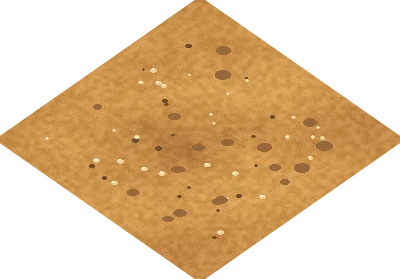
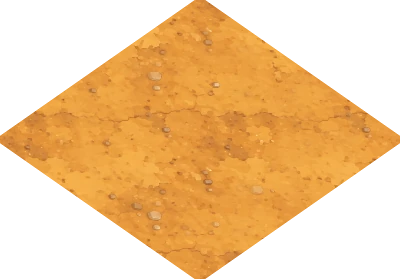
ok

diff --git a/farma/index.html b/farma/index.html
@@ -165,7 +165,7 @@ h4{margin:12px 0 6px;font-size:13px;font-weight:800;color:var(--brown2)}
 
 <script>
 'use strict';
-const META={"bridge":{"bb":[17,23,383,344],"w":400,"h":367},"bridge2":{"bb":[3,18,396,348],"w":400,"h":367},"coin_icon":{"bb":[2,3,136,145],"w":136,"h":147},"coop":{"bb":[29,21,369,346],"w":400,"h":367},"coop_hens":{"bb":[32,39,368,361],"w":400,"h":400},"d_clover1":{"bb":[4,4,255,189],"w":259,"h":193},"d_clover2":{"bb":[4,4,215,155],"w":219,"h":159},"d_fern1":{"bb":[4,4,237,190],"w":241,"h":194},"d_fern2":{"bb":[4,4,234,186],"w":238,"h":190},"d_moss1":{"bb":[4,4,251,183],"w":255,"h":187},"d_moss2":{"bb":[4,4,292,196],"w":296,"h":200},"d_mush1":{"bb":[4,4,130,106],"w":135,"h":110},"d_mush2":{"bb":[4,4,130,124],"w":134,"h":128},"d_petal1":{"bb":[4,4,241,126],"w":246,"h":130},"d_petal2":{"bb":[4,4,237,129],"w":241,"h":133},"d_pflow1":{"bb":[4,4,241,194],"w":245,"h":198},"d_pflow2":{"bb":[4,4,218,180],"w":222,"h":184},"d_pflow3":{"bb":[4,4,224,190],"w":228,"h":194},"d_stone1":{"bb":[4,4,162,118],"w":166,"h":122},"d_stone2":{"bb":[4,5,186,119],"w":190,"h":123},"d_stone3":{"bb":[4,4,178,129],"w":183,"h":133},"d_tuft1":{"bb":[4,4,222,210],"w":226,"h":214},"d_tuft2":{"bb":[4,4,211,224],"w":215,"h":228},"d_tuft3":{"bb":[4,4,228,235],"w":232,"h":239},"d_wflow1":{"bb":[4,4,181,177],"w":185,"h":181},"d_wflow2":{"bb":[4,5,212,191],"w":216,"h":195},"d_wflow3":{"bb":[4,4,204,181],"w":208,"h":185},"daikon_1":{"bb":[4,5,332,280],"w":336,"h":284,"soil":[35,156,276,278]},"daikon_2":{"bb":[4,5,521,426],"w":525,"h":430,"soil":[141,311,375,424]},"daikon_3":{"bb":[4,5,611,593],"w":615,"h":597,"soil":[189,367,449,591]},"dirt1":{"bb":[0,0,400,279],"w":400,"h":279},"dirt2":{"bb":[0,0,400,279],"w":400,"h":279},"dirt3":{"bb":[0,0,400,279],"w":400,"h":279},"f_hoe":{"bb":[77,6,348,356],"w":400,"h":367},"f_pet":{"bb":[108,31,307,333],"w":400,"h":367},"f_stand":{"bb":[122,36,278,330],"w":400,"h":367},"f_walk1":{"bb":[110,14,301,352],"w":400,"h":367},"f_walk2":{"bb":[84,16,315,439],"w":400,"h":456},"f_water":{"bb":[70,15,344,382],"w":400,"h":400},"f_wipe":{"bb":[89,28,269,372],"w":400,"h":400},"fa_harvest_1":{"bb":[21,23,264,348],"w":284,"h":353,"set":[8,11,276,348]},"fa_harvest_2":{"bb":[9,23,276,348],"w":284,"h":353,"set":[8,11,276,348]},"fa_harvest_3":{"bb":[8,11,276,348],"w":284,"h":353,"set":[8,11,276,348]},"fa_harvest_4":{"bb":[30,13,254,348],"w":284,"h":353,"set":[8,11,276,348]},"fa_hoe_1":{"bb":[8,11,262,371],"w":270,"h":376,"set":[8,11,262,371]},"fa_hoe_2":{"bb":[27,53,244,371],"w":270,"h":376,"set":[8,11,262,371]},"fa_hoe_3":{"bb":[18,45,253,371],"w":270,"h":376,"set":[8,11,262,371]},"fa_hoe_4":{"bb":[17,39,253,371],"w":270,"h":376,"set":[8,11,262,371]},"fa_plant_1":{"bb":[9,14,220,301],"w":228,"h":306,"set":[8,11,220,301]},"fa_plant_2":{"bb":[13,25,215,301],"w":228,"h":306,"set":[8,11,220,301]},"fa_plant_3":{"bb":[8,11,220,301],"w":228,"h":306,"set":[8,11,220,301]},"fa_water_1":{"bb":[14,15,225,341],"w":238,"h":346,"set":[8,11,230,341]},"fa_water_2":{"bb":[22,21,216,341],"w":238,"h":346,"set":[8,11,230,341]},"fa_water_3":{"bb":[8,16,230,341],"w":238,"h":346,"set":[8,11,230,341]},"fa_water_4":{"bb":[24,11,214,341],"w":238,"h":346,"set":[8,11,230,341]},"fence":{"bb":[30,37,369,330],"w":400,"h":367},"fence_c":{"bb":[32,34,368,333],"w":400,"h":367},"flower_icon":{"bb":[3,2,130,144],"w":130,"h":146},"flowers":{"bb":[36,48,364,319],"w":400,"h":367},"fw_d_1":{"bb":[11,24,275,475],"w":285,"h":480,"set":[8,11,277,475]},"fw_d_2":{"bb":[13,44,273,475],"w":285,"h":480,"set":[8,11,277,475]},"fw_d_3":{"bb":[12,21,273,475],"w":285,"h":480,"set":[8,11,277,475]},"fw_d_4":{"bb":[8,15,277,475],"w":285,"h":480,"set":[8,11,277,475]},"fw_d_5":{"bb":[13,20,272,475],"w":285,"h":480,"set":[8,11,277,475]},"fw_d_6":{"bb":[13,11,272,475],"w":285,"h":480,"set":[8,11,277,475]},"fw_u_1":{"bb":[11,20,272,476],"w":282,"h":481,"set":[8,11,274,476]},"fw_u_2":{"bb":[12,32,271,476],"w":282,"h":481,"set":[8,11,274,476]},"fw_u_3":{"bb":[11,21,272,476],"w":282,"h":481,"set":[8,11,274,476]},"fw_u_4":{"bb":[11,11,272,476],"w":282,"h":481,"set":[8,11,274,476]},"fw_u_5":{"bb":[8,43,274,476],"w":282,"h":481,"set":[8,11,274,476]},"fw_u_6":{"bb":[8,14,274,476],"w":282,"h":481,"set":[8,11,274,476]},"grass1":{"bb":[0,0,400,279],"w":400,"h":279},"grass2":{"bb":[0,0,400,279],"w":400,"h":279},"grass3":{"bb":[0,0,400,279],"w":400,"h":279},"grass4":{"bb":[0,0,400,279],"w":400,"h":279},"house":{"bb":[13,21,387,346],"w":400,"h":367},"kura_biala":{"bb":[58,12,329,354],"w":400,"h":367},"kura_biala2":{"bb":[65,48,337,329],"w":400,"h":367},"kura_brazowa":{"bb":[66,9,354,354],"w":400,"h":367},"kura_brazowa2":{"bb":[35,36,332,304],"w":400,"h":367},"kurczak_maly":{"bb":[88,61,278,318],"w":400,"h":367},"kurczak_maly2":{"bb":[78,66,324,303],"w":400,"h":367},"mango_head":{"bb":[21,15,388,349],"w":400,"h":364},"mango_hunt":{"bb":[43,22,357,345],"w":400,"h":367},"mango_lie":{"bb":[5,72,395,295],"w":400,"h":367},"mango_loaf":{"bb":[26,59,374,307],"w":400,"h":367},"mango_play":{"bb":[26,18,373,349],"w":400,"h":367},"mango_sleep":{"bb":[37,93,361,292],"w":400,"h":367},"mango_sweet":{"bb":[40,12,360,355],"w":400,"h":367},"mango_walk":{"bb":[28,7,363,343],"w":400,"h":367},"mango_wd_1":{"bb":[8,11,482,486],"w":490,"h":491,"set":[8,11,482,486]},"mango_wd_2":{"bb":[18,41,473,486],"w":490,"h":491,"set":[8,11,482,486]},"mango_wd_3":{"bb":[15,20,476,486],"w":490,"h":491,"set":[8,11,482,486]},"mango_wd_4":{"bb":[24,41,467,486],"w":490,"h":491,"set":[8,11,482,486]},"mango_wink":{"bb":[34,23,366,345],"w":400,"h":367},"mango_wu_1":{"bb":[13,21,483,466],"w":496,"h":471,"set":[12,21,484,466]},"mango_wu_2":{"bb":[20,53,476,466],"w":496,"h":471,"set":[12,21,484,466]},"mango_wu_3":{"bb":[25,40,472,466],"w":496,"h":471,"set":[12,21,484,466]},"mango_wu_4":{"bb":[12,37,484,466],"w":496,"h":471,"set":[12,21,484,466]},"path":{"bb":[43,48,357,319],"w":400,"h":367},"pond":{"bb":[46,42,354,325],"w":400,"h":367},"pond2":{"bb":[16,19,384,348],"w":400,"h":367},"sakura":{"bb":[58,20,340,347],"w":400,"h":367},"soil_dry1":{"bb":[0,0,400,279],"w":400,"h":279},"soil_dry2":{"bb":[0,0,400,279],"w":400,"h":279},"soil_wet1":{"bb":[0,0,400,279],"w":400,"h":279},"soil_wet2":{"bb":[0,0,400,279],"w":400,"h":279},"sushi_back":{"bb":[22,31,378,336],"w":400,"h":367},"sushi_head":{"bb":[22,14,383,349],"w":400,"h":364},"sushi_headangry":{"bb":[10,3,389,360],"w":400,"h":364},"sushi_hunt":{"bb":[31,29,369,337],"w":400,"h":367},"sushi_sit":{"bb":[15,24,382,347],"w":400,"h":364},"sushi_sleep":{"bb":[54,58,346,308],"w":400,"h":367},"sushi_sleep2":{"bb":[17,36,383,328],"w":400,"h":364},"sushi_stretch":{"bb":[25,22,375,345],"w":400,"h":367},"sushi_walk":{"bb":[43,22,357,348],"w":400,"h":367},"sushi_wd_1":{"bb":[15,50,496,459],"w":511,"h":464,"set":[7,16,504,459]},"sushi_wd_2":{"bb":[22,74,490,459],"w":511,"h":464,"set":[7,16,504,459]},"sushi_wd_3":{"bb":[7,23,504,459],"w":511,"h":464,"set":[7,16,504,459]},"sushi_wd_4":{"bb":[23,16,489,459],"w":511,"h":464,"set":[7,16,504,459]},"sushi_wu_1":{"bb":[12,15,479,444],"w":490,"h":449,"set":[12,15,479,444]},"sushi_wu_2":{"bb":[17,48,474,444],"w":490,"h":449,"set":[12,15,479,444]},"sushi_wu_3":{"bb":[20,33,470,444],"w":490,"h":449,"set":[12,15,479,444]},"sushi_wu_4":{"bb":[17,22,474,444],"w":490,"h":449,"set":[12,15,479,444]},"t_bag":{"bb":[43,30,357,337],"w":400,"h":367},"t_harvest":{"bb":[26,2,367,327],"w":370,"h":344},"t_seed":{"bb":[27,2,367,327],"w":370,"h":344},"t_settings":{"bb":[106,2,288,189],"w":290,"h":275},"t_water":{"bb":[27,3,367,327],"w":370,"h":344},"well":{"bb":[48,40,352,327],"w":400,"h":367}};
+const META={"bed_stone1":{"bb":[1,1,149,121],"w":150,"h":122},"bed_stone2":{"bb":[1,1,149,119],"w":150,"h":120},"bed_stone3":{"bb":[1,1,149,125],"w":150,"h":126},"bed_stone4":{"bb":[1,1,149,125],"w":150,"h":126},"bridge":{"bb":[17,23,383,344],"w":400,"h":367},"bridge2":{"bb":[3,18,396,348],"w":400,"h":367},"coin_icon":{"bb":[2,3,136,145],"w":136,"h":147},"coop":{"bb":[29,21,369,346],"w":400,"h":367},"coop_hens":{"bb":[32,39,368,361],"w":400,"h":400},"d_clover1":{"bb":[4,4,255,189],"w":259,"h":193},"d_clover2":{"bb":[4,4,215,155],"w":219,"h":159},"d_fern1":{"bb":[4,4,237,190],"w":241,"h":194},"d_fern2":{"bb":[4,4,234,186],"w":238,"h":190},"d_moss1":{"bb":[4,4,251,183],"w":255,"h":187},"d_moss2":{"bb":[4,4,292,196],"w":296,"h":200},"d_mush1":{"bb":[4,4,130,106],"w":135,"h":110},"d_mush2":{"bb":[4,4,130,124],"w":134,"h":128},"d_petal1":{"bb":[4,4,241,126],"w":246,"h":130},"d_petal2":{"bb":[4,4,237,129],"w":241,"h":133},"d_pflow1":{"bb":[4,4,241,194],"w":245,"h":198},"d_pflow2":{"bb":[4,4,218,180],"w":222,"h":184},"d_pflow3":{"bb":[4,4,224,190],"w":228,"h":194},"d_stone1":{"bb":[4,4,162,118],"w":166,"h":122},"d_stone2":{"bb":[4,5,186,119],"w":190,"h":123},"d_stone3":{"bb":[4,4,178,129],"w":183,"h":133},"d_tuft1":{"bb":[4,4,222,210],"w":226,"h":214},"d_tuft2":{"bb":[4,4,211,224],"w":215,"h":228},"d_tuft3":{"bb":[4,4,228,235],"w":232,"h":239},"d_wflow1":{"bb":[4,4,181,177],"w":185,"h":181},"d_wflow2":{"bb":[4,5,212,191],"w":216,"h":195},"d_wflow3":{"bb":[4,4,204,181],"w":208,"h":185},"daikon_1":{"bb":[4,5,332,280],"w":336,"h":284,"soil":[35,156,276,278]},"daikon_2":{"bb":[4,5,521,426],"w":525,"h":430,"soil":[141,311,375,424]},"daikon_3":{"bb":[4,5,611,593],"w":615,"h":597,"soil":[189,367,449,591]},"dirt1":{"bb":[0,0,400,279],"w":400,"h":279},"dirt2":{"bb":[0,0,400,279],"w":400,"h":279},"dirt3":{"bb":[0,0,400,279],"w":400,"h":279},"dirt4":{"bb":[0,0,400,279],"w":400,"h":279},"f_hoe":{"bb":[77,6,348,356],"w":400,"h":367},"f_pet":{"bb":[108,31,307,333],"w":400,"h":367},"f_stand":{"bb":[122,36,278,330],"w":400,"h":367},"f_walk1":{"bb":[110,14,301,352],"w":400,"h":367},"f_walk2":{"bb":[84,16,315,439],"w":400,"h":456},"f_water":{"bb":[70,15,344,382],"w":400,"h":400},"f_wipe":{"bb":[89,28,269,372],"w":400,"h":400},"fa_harvest_1":{"bb":[21,23,264,348],"w":284,"h":353,"set":[8,11,276,348]},"fa_harvest_2":{"bb":[9,23,276,348],"w":284,"h":353,"set":[8,11,276,348]},"fa_harvest_3":{"bb":[8,11,276,348],"w":284,"h":353,"set":[8,11,276,348]},"fa_harvest_4":{"bb":[30,13,254,348],"w":284,"h":353,"set":[8,11,276,348]},"fa_hoe_1":{"bb":[8,11,262,371],"w":270,"h":376,"set":[8,11,262,371]},"fa_hoe_2":{"bb":[27,53,244,371],"w":270,"h":376,"set":[8,11,262,371]},"fa_hoe_3":{"bb":[18,45,253,371],"w":270,"h":376,"set":[8,11,262,371]},"fa_hoe_4":{"bb":[17,39,253,371],"w":270,"h":376,"set":[8,11,262,371]},"fa_plant_1":{"bb":[9,14,220,301],"w":228,"h":306,"set":[8,11,220,301]},"fa_plant_2":{"bb":[13,25,215,301],"w":228,"h":306,"set":[8,11,220,301]},"fa_plant_3":{"bb":[8,11,220,301],"w":228,"h":306,"set":[8,11,220,301]},"fa_water_1":{"bb":[14,15,225,341],"w":238,"h":346,"set":[8,11,230,341]},"fa_water_2":{"bb":[22,21,216,341],"w":238,"h":346,"set":[8,11,230,341]},"fa_water_3":{"bb":[8,16,230,341],"w":238,"h":346,"set":[8,11,230,341]},"fa_water_4":{"bb":[24,11,214,341],"w":238,"h":346,"set":[8,11,230,341]},"fence":{"bb":[30,37,369,330],"w":400,"h":367},"fence_c":{"bb":[32,34,368,333],"w":400,"h":367},"flower_icon":{"bb":[3,2,130,144],"w":130,"h":146},"flowers":{"bb":[36,48,364,319],"w":400,"h":367},"fw_d_1":{"bb":[11,24,275,475],"w":285,"h":480,"set":[8,11,277,475]},"fw_d_2":{"bb":[13,44,273,475],"w":285,"h":480,"set":[8,11,277,475]},"fw_d_3":{"bb":[12,21,273,475],"w":285,"h":480,"set":[8,11,277,475]},"fw_d_4":{"bb":[8,15,277,475],"w":285,"h":480,"set":[8,11,277,475]},"fw_d_5":{"bb":[13,20,272,475],"w":285,"h":480,"set":[8,11,277,475]},"fw_d_6":{"bb":[13,11,272,475],"w":285,"h":480,"set":[8,11,277,475]},"fw_u_1":{"bb":[11,20,272,476],"w":282,"h":481,"set":[8,11,274,476]},"fw_u_2":{"bb":[12,32,271,476],"w":282,"h":481,"set":[8,11,274,476]},"fw_u_3":{"bb":[11,21,272,476],"w":282,"h":481,"set":[8,11,274,476]},"fw_u_4":{"bb":[11,11,272,476],"w":282,"h":481,"set":[8,11,274,476]},"fw_u_5":{"bb":[8,43,274,476],"w":282,"h":481,"set":[8,11,274,476]},"fw_u_6":{"bb":[8,14,274,476],"w":282,"h":481,"set":[8,11,274,476]},"grass1":{"bb":[0,0,400,279],"w":400,"h":279},"grass2":{"bb":[0,0,400,279],"w":400,"h":279},"grass3":{"bb":[0,0,400,279],"w":400,"h":279},"grass4":{"bb":[0,0,400,279],"w":400,"h":279},"house":{"bb":[13,21,387,346],"w":400,"h":367},"kura_biala":{"bb":[58,12,329,354],"w":400,"h":367},"kura_biala2":{"bb":[65,48,337,329],"w":400,"h":367},"kura_brazowa":{"bb":[66,9,354,354],"w":400,"h":367},"kura_brazowa2":{"bb":[35,36,332,304],"w":400,"h":367},"kurczak_maly":{"bb":[88,61,278,318],"w":400,"h":367},"kurczak_maly2":{"bb":[78,66,324,303],"w":400,"h":367},"mango_head":{"bb":[21,15,388,349],"w":400,"h":364},"mango_hunt":{"bb":[43,22,357,345],"w":400,"h":367},"mango_lie":{"bb":[5,72,395,295],"w":400,"h":367},"mango_loaf":{"bb":[26,59,374,307],"w":400,"h":367},"mango_play":{"bb":[26,18,373,349],"w":400,"h":367},"mango_sleep":{"bb":[37,93,361,292],"w":400,"h":367},"mango_sweet":{"bb":[40,12,360,355],"w":400,"h":367},"mango_walk":{"bb":[28,7,363,343],"w":400,"h":367},"mango_wd_1":{"bb":[8,11,482,486],"w":490,"h":491,"set":[8,11,482,486]},"mango_wd_2":{"bb":[18,41,473,486],"w":490,"h":491,"set":[8,11,482,486]},"mango_wd_3":{"bb":[15,20,476,486],"w":490,"h":491,"set":[8,11,482,486]},"mango_wd_4":{"bb":[24,41,467,486],"w":490,"h":491,"set":[8,11,482,486]},"mango_wink":{"bb":[34,23,366,345],"w":400,"h":367},"mango_wu_1":{"bb":[13,21,483,466],"w":496,"h":471,"set":[12,21,484,466]},"mango_wu_2":{"bb":[20,53,476,466],"w":496,"h":471,"set":[12,21,484,466]},"mango_wu_3":{"bb":[25,40,472,466],"w":496,"h":471,"set":[12,21,484,466]},"mango_wu_4":{"bb":[12,37,484,466],"w":496,"h":471,"set":[12,21,484,466]},"path":{"bb":[43,48,357,319],"w":400,"h":367},"pond":{"bb":[46,42,354,325],"w":400,"h":367},"pond2":{"bb":[16,19,384,348],"w":400,"h":367},"sakura":{"bb":[58,20,340,347],"w":400,"h":367},"soil_dry1":{"bb":[0,0,400,279],"w":400,"h":279},"soil_dry2":{"bb":[0,0,400,279],"w":400,"h":279},"soil_wet1":{"bb":[0,0,400,279],"w":400,"h":279},"soil_wet2":{"bb":[0,0,400,279],"w":400,"h":279},"sushi_back":{"bb":[22,31,378,336],"w":400,"h":367},"sushi_head":{"bb":[22,14,383,349],"w":400,"h":364},"sushi_headangry":{"bb":[10,3,389,360],"w":400,"h":364},"sushi_hunt":{"bb":[31,29,369,337],"w":400,"h":367},"sushi_sit":{"bb":[15,24,382,347],"w":400,"h":364},"sushi_sleep":{"bb":[54,58,346,308],"w":400,"h":367},"sushi_sleep2":{"bb":[17,36,383,328],"w":400,"h":364},"sushi_stretch":{"bb":[25,22,375,345],"w":400,"h":367},"sushi_walk":{"bb":[43,22,357,348],"w":400,"h":367},"sushi_wd_1":{"bb":[15,50,496,459],"w":511,"h":464,"set":[7,16,504,459]},"sushi_wd_2":{"bb":[22,74,490,459],"w":511,"h":464,"set":[7,16,504,459]},"sushi_wd_3":{"bb":[7,23,504,459],"w":511,"h":464,"set":[7,16,504,459]},"sushi_wd_4":{"bb":[23,16,489,459],"w":511,"h":464,"set":[7,16,504,459]},"sushi_wu_1":{"bb":[12,15,479,444],"w":490,"h":449,"set":[12,15,479,444]},"sushi_wu_2":{"bb":[17,48,474,444],"w":490,"h":449,"set":[12,15,479,444]},"sushi_wu_3":{"bb":[20,33,470,444],"w":490,"h":449,"set":[12,15,479,444]},"sushi_wu_4":{"bb":[17,22,474,444],"w":490,"h":449,"set":[12,15,479,444]},"t_bag":{"bb":[43,30,357,337],"w":400,"h":367},"t_harvest":{"bb":[26,2,367,327],"w":370,"h":344},"t_seed":{"bb":[27,2,367,327],"w":370,"h":344},"t_settings":{"bb":[106,2,288,189],"w":290,"h":275},"t_water":{"bb":[27,3,367,327],"w":370,"h":344},"well":{"bb":[48,40,352,327],"w":400,"h":367},"wood1":{"bb":[0,0,480,56],"w":480,"h":56},"wood2":{"bb":[0,0,480,55],"w":480,"h":55},"wood3":{"bb":[0,0,480,56],"w":480,"h":56}};
 const $=s=>document.querySelector(s);
 const clamp=(v,a,b)=>Math.max(a,Math.min(b,v));
 const lerp=(a,b,t)=>a+(b-a)*t;
@@ -364,7 +364,7 @@ function rebuildEdge(c,r){   // japońska obwódka grządek: przednie belki + ka
     if(!stone)continue;
     const own=a?[nc-1,nr-1]:b?[nc,nr-1]:cc?[nc-1,nr]:[nc,nr];
     if(own[0]!==c||own[1]!==r)continue;
-    L.push({rk:5,v:Math.floor(hash2(nc,nr,4)*2),x:(nc-nr)*HW,y:(nc+nr)*HH,d:nc+nr+.25});
+    L.push({rk:5,v:Math.floor(hash2(nc,nr,4)*4)%Math.max(1,gcache.b?gcache.b.st.length:4),x:(nc-nr)*HW,y:(nc+nr)*HH,d:nc+nr+.25});
   }
 }
 function pickDecorOff(c,r){decorBy[r][c].length=0;}
@@ -580,7 +580,7 @@ function callCat(c){
     for(let k=0;k<6&&cand.length;k++){const t=pick(cand);if(goTo(c,t[0],t[1])){c.state='walk';c.called=true;c.speed=1.9;toast(cd.name+' biegnie do Ciebie');return;}}
     toast(cd.name+' nie może dojść');return;
   }
-  const [pose,msg]=pick(IGNORE[cd.id]);c.path=[];c.state='react';c.reactPose=pose;c.stT=rnd(3.5,5.5);c.hop=.38;toast(msg);
+  const [pose,msg]=pick(IGNORE[cd.id]);c.path=[];c.state='react';c.reactPose=pose;c.stT=rnd(3.5,5.5);toast(msg);
 }
 function catPose(c){
   const P=c.def.pose;if(c.over)return P[c.over]||P.sit;
@@ -638,7 +638,7 @@ function buildGroundCache(){
   for(let i=1;i<=4;i++)if(IMG['grass'+i])gcache.g.push(mk(IMG['grass'+i],true));
   for(const k of ['soil_dry1','soil_dry2','soil_wet1','soil_wet2'])if(IMG[k])gcache.s[k]=mk(IMG[k],false);
   gcache.d=[];gcache.m={};gcache.th=th;gcache.k=tw/GW;
-  for(let i=1;i<=3;i++)if(IMG['dirt'+i])gcache.d.push(mk(IMG['dirt'+i],false));
+  for(let i=1;i<=4;i++)if(IMG['dirt'+i])gcache.d.push(mk(IMG['dirt'+i],false));
   gcache.b=makeBorderSprites(gcache.k);
 }
 // maska przejścia ziemia→trawa (niska rozdzielczość, wspólna dla wszystkich kafelków o tej samej konfiguracji sąsiadów)
@@ -692,19 +692,35 @@ function makeBorderSprites(k){
       poly(front,dark,null);
       // słoje na przedniej ściance
       g.strokeStyle='rgba(20,10,4,.35)';g.lineWidth=.7;
-      for(let i=1;i<3;i++){const f=i/3;g.beginPath();g.moveTo(front[0][0]+(front[3][0]-front[0][0])*f,front[0][1]+(front[3][1]-front[0][1])*f);g.lineTo(front[1][0]+(front[2][0]-front[1][0])*f,front[1][1]+(front[2][1]-front[1][1])*f);g.stroke();}
+      if(!IMG.wood1)for(let i=1;i<3;i++){const f=i/3;g.beginPath();g.moveTo(front[0][0]+(front[3][0]-front[0][0])*f,front[0][1]+(front[3][1]-front[0][1])*f);g.lineTo(front[1][0]+(front[2][0]-front[1][0])*f,front[1][1]+(front[2][1]-front[1][1])*f);g.stroke();}
       poly(top,mid,null);
+      const wtex=(q,im,sx,sy,sw,sh,dark)=>{ // tekstura drewna rzutowana na równoległobok q (q0->q1 wzdłuż, q0->q3 w poprzek)
+        if(!im)return;g.save();g.beginPath();g.moveTo(q[0][0],q[0][1]);for(let i=1;i<4;i++)g.lineTo(q[i][0],q[i][1]);g.closePath();g.clip();
+        g.transform(q[1][0]-q[0][0],q[1][1]-q[0][1],q[3][0]-q[0][0],q[3][1]-q[0][1],q[0][0],q[0][1]);
+        g.imageSmoothingQuality='high';g.drawImage(im,sx,sy,sw,sh,0,0,1,1);g.restore();
+        if(dark){g.fillStyle=dark;g.beginPath();g.moveTo(q[0][0],q[0][1]);for(let i=1;i<4;i++)g.lineTo(q[i][0],q[i][1]);g.closePath();g.fill();}};
+      {const ia=IMG['wood'+(vi?3:1)],ib=IMG['wood2'];
+       if(ia){const ww=ia.width,wh=ia.height,off=name==='S1'?0:ww*.35;
+         wtex(top,ia,off,0,ww*.65,wh,null);
+         if(ib)wtex(front,ib,(name==='S1'?.1:.5)*ib.width,0,ib.width*.5,ib.height*.55,'rgba(20,8,2,.22)');}}
       // jaśniejszy pas i słoje na wierzchu
       const lerp2=(a,b,f)=>[a[0]+(b[0]-a[0])*f,a[1]+(b[1]-a[1])*f];
-      const hl=[lerp2(top[0],top[3],.12),lerp2(top[1],top[2],.12),lerp2(top[1],top[2],.5),lerp2(top[0],top[3],.5)];poly(hl,hi,null);
+      const hl=[lerp2(top[0],top[3],.12),lerp2(top[1],top[2],.12),lerp2(top[1],top[2],.5),lerp2(top[0],top[3],.5)];if(!IMG.wood1)poly(hl,hi,null);else{g.globalAlpha=.16;poly(hl,'#ffe2b0',null);g.globalAlpha=1;}
       g.strokeStyle='rgba(40,22,10,.4)';g.lineWidth=.6;
-      for(const f of [.3,.72]){const a=lerp2(top[0],top[3],f),b=lerp2(top[1],top[2],f);g.beginPath();g.moveTo(a[0],a[1]);g.lineTo(b[0],b[1]);g.stroke();}
+      if(!IMG.wood1)for(const f of [.3,.72]){const a=lerp2(top[0],top[3],f),b=lerp2(top[1],top[2],f);g.beginPath();g.moveTo(a[0],a[1]);g.lineTo(b[0],b[1]);g.stroke();}
       const m=lerp2(top[0],top[1],.5),m2=lerp2(top[3],top[2],.5);g.strokeStyle='rgba(30,16,6,.45)';g.beginPath();g.moveTo(m[0],m[1]);g.lineTo(m2[0],m2[1]);g.stroke();   // łączenie desek
       poly(top,null,'rgba(30,18,8,.85)',1.1);poly(front,null,'rgba(30,18,8,.75)',1);
       out[name].push({c:cv2,ox:x0,oy:y0,w:cv2.width/k,h:cv2.height/k});
     }
   }
-  for(let vi=0;vi<2;vi++){   // kamień narożny
+  for(let vi=0;vi<4;vi++){   // kamień narożny (grafika)
+    const im=IMG['bed_stone'+(vi+1)];if(!im)break;
+    const w=24+(vi%2)*2,h=w*im.height/im.width,sp=4,cv2=document.createElement('canvas');cv2.width=Math.ceil((w+sp*2)*k);cv2.height=Math.ceil((h+sp+3)*k);const g=cv2.getContext('2d');g.scale(k,k);g.translate(sp+w/2,sp+h-3);
+    g.fillStyle='rgba(28,18,8,.30)';g.beginPath();g.ellipse(2,0,w*.5,3.4,0,0,6.3);g.fill();
+    g.imageSmoothingQuality='high';g.drawImage(im,-w/2,-h+1,w,h);
+    out.st.push({c:cv2,ox:-(sp+w/2),oy:-(sp+h-3),w:cv2.width/k,h:cv2.height/k});
+  }
+  if(!out.st.length)for(let vi=0;vi<2;vi++){   // kamień narożny (zapas)
     const w=17,h=13,cv2=document.createElement('canvas');cv2.width=Math.ceil((w+4)*k);cv2.height=Math.ceil((h+5)*k);const g=cv2.getContext('2d');g.scale(k,k);g.translate(2+w/2,2+h);
     g.fillStyle='rgba(28,18,8,.28)';g.beginPath();g.ellipse(2,-1,w*.56,3.2,0,0,6.3);g.fill();
     g.beginPath();g.moveTo(-w/2,-1);g.bezierCurveTo(-w/2-1,-h*.7,-w*.2,-h-1,w*.1,-h);g.bezierCurveTo(w*.42,-h,w/2+1,-h*.55,w/2,-1);g.bezierCurveTo(w*.2,2,-w*.2,2,-w/2,-1);g.closePath();
@@ -732,8 +748,8 @@ function drawGround(c,r){
   const dm=dirtMap[r][c],cfg=dm?dirtCfg[r][c]:0;
   if(!dm||cfg){const g=gcache.g[Math.floor(hash2(c,r,1)*8)%gcache.g.length];if(g)ctx.drawImage(g,cx-GW/2,cy-GH/2,GW,GH);}
   if(dm){
-    const v=Math.floor(hash2(c,r,9)*3)%Math.max(1,gcache.d.length);
-    const im=cfg?(gcache.m[cfg*3+v]||(gcache.m[cfg*3+v]=maskedDirt(cfg,v))):gcache.d[v];
+    const v=Math.floor(hash2(c,r,9)*4)%Math.max(1,gcache.d.length);
+    const im=cfg?(gcache.m[cfg*4+v]||(gcache.m[cfg*4+v]=maskedDirt(cfg,v))):gcache.d[v];
     if(im)ctx.drawImage(im,cx-GW/2,cy-GH/2,GW,GH);
   }
   if(pathMap[r][c]){const M=META.path,bw=M.bb[2]-M.bb[0],sc=2*HW*1.06/bw;
@@ -748,7 +764,7 @@ function drawBackBorders(c0,c1,r0,r1){   // tylne belki obwódek (za roślinami)
     if(!(inB(c,r-1)&&soilMap[r-1][c])){const sp=B.S1[v];ctx.drawImage(sp.c,X+sp.ox,Y+sp.oy,sp.w,sp.h);}
   }
 }
-function drawBorder(it){const B=gcache.b;if(!B)return;const sp=it.rk===5?B.st[it.v]:B[it.t][it.v];ctx.drawImage(sp.c,it.x+sp.ox,it.y+sp.oy,sp.w,sp.h);}
+function drawBorder(it){const B=gcache.b;if(!B)return;const sp=it.rk===5?B.st[it.v%B.st.length]:B[it.t][it.v];ctx.drawImage(sp.c,it.x+sp.ox,it.y+sp.oy,sp.w,sp.h);}
 // miękkie cienie pod dużymi obiektami (światło z lewej-góry)
 let shCv=null;
 function drawObjShadows(x0,x1,y0,y1){
@@ -840,9 +856,11 @@ function drawEntity(e){
   if((e.type==='cat'||e.type==='hen')&&moving){flip=e.sdx<0;if(e.type==='cat'&&e.sdy<0&&frames(e.cd.id+'_wu'))flip=e.sdx>0;}
   e.flip=flip;
   // płynne obracanie się (zamiast natychmiastowego odbicia)
-  const tf=flip?-1:1;if(e.fx===undefined)e.fx=tf;e.fx+=clamp(tf-e.fx,-FDT*9,FDT*9);
+  const tf=flip?-1:1;if(e.fx===undefined)e.fx=tf;
+  if(e.fx!==tf){e.fx=tf;e.turnT=.2;}   // natychmiastowa zmiana kierunku (bez ściskania), krótki "przeskok" pozy
+  if(e.turnT>0)e.turnT=Math.max(0,e.turnT-FDT);
   const wsh=(bb[2]-bb[0])*scale*.5;
-  ctx.fillStyle='rgba(30,40,20,.28)';ctx.beginPath();ctx.ellipse(p.x,p.y+1,Math.max(9,wsh*.62),Math.max(3.5,wsh*.24),0,0,6.3);ctx.fill();
+  ctx.fillStyle='rgba(30,40,20,.28)';ctx.beginPath();ctx.ellipse(p.x,p.y+4,Math.max(9,wsh*.62),Math.max(3.5,wsh*.24),0,0,6.3);ctx.fill();
   let bob=0,tilt=0,sy=1,sx=1;const t=e.t;
   if(moving){
     const ph=e.ph||0,lift=Math.abs(Math.sin(ph)),amp=e.type==='farmer'?4.5:(e.type==='cat'?3.4:2.6);
@@ -863,7 +881,6 @@ function drawEntity(e){
       else{bob=-Math.abs(Math.sin(t*5))*1.4;}
     }else sy=1+Math.sin(t*2.2)*.012;
   }else if(e.type==='cat'){
-    if(e.hop>0){const u=1-e.hop/.38;bob-=Math.sin(Math.PI*u)*12;sy*=1+Math.sin(Math.PI*u)*.06;}
     if(e.over==='happy'){const pr=Math.sin(t*13);sy=1+pr*.014;sx=1-pr*.01;tilt=Math.sin(t*2.4)*.03;bob=-Math.abs(Math.sin(t*4.5))*1.6;}
     else if(e.over==='eat'){tilt=Math.sin(t*9)*.045;sy=1-Math.abs(Math.sin(t*9))*.035;bob=0;}
     else if(e.state==='sleep'){sy=1+Math.sin(t*1.7)*.026;sx=1-Math.sin(t*1.7)*.012;}
@@ -873,7 +890,9 @@ function drawEntity(e){
   }else if(e.type==='hen'){
     if(e.state==='peck'){const k=Math.max(0,Math.sin(t*7));tilt=k*.16;bob=k*1.2;}
   }
-  ctx.save();ctx.translate(p.x,p.y+bob);ctx.rotate(tilt);ctx.scale(e.fx*sx,sy);
+  if(e.turnT>0){const u=e.turnT/.2;tilt+=-e.fx*.09*u;bob-=Math.sin(Math.PI*(1-u))*(e.type==='farmer'?2.2:1.4);}
+  const sink=e.type==='farmer'?6:e.type==='cat'?5:2;   // obniżenie sprite'a, żeby stał na ziemi, a nie lewitował
+  ctx.save();ctx.translate(p.x,p.y+sink+bob);ctx.rotate(tilt);ctx.scale(e.fx*sx,sy);
   ctx.drawImage(im,-cx*scale,-by*scale,im.width*scale,im.height*scale);ctx.restore();
 }
 function drawBubble(x,y,txt){
@@ -1241,7 +1260,7 @@ function onTap(sx,sy){
   if(!$('#modalWrap').classList.contains('hidden'))return;
   if(!$('#welcome').classList.contains('hidden'))return;
   const e=entAtScreen(sx,sy);
-  if(e&&e.type==='cat'){setTool(null);e.hop=.38;spawnHeart(e);openCat(e);return;}
+  if(e&&e.type==='cat'){setTool(null);spawnHeart(e);openCat(e);return;}
   if(e&&e.type==='hen'){toast(pick(['Kokoko!','Ko-ko-ko!','Kwok kwok','Kurka chyba zgłodniała']));for(let i=0;i<3;i++)spawnSpark(e.x,e.y);return;}
   if(selCat)closeCat();
   const [c,r]=cellAt(sx,sy);if(!inB(c,r))return;

diff --git a/farma/sw.js b/farma/sw.js
@@ -1,4 +1,4 @@
-const C='sakura-farma-v8';
+const C='sakura-farma-v10';
 self.addEventListener('install',e=>{self.skipWaiting();});
 self.addEventListener('activate',e=>{e.waitUntil(caches.keys().then(ks=>Promise.all(ks.filter(k=>k!==C).map(k=>caches.delete(k)))).then(()=>self.clients.claim()));});
 // najpierw sieć (zawsze świeża wersja), pamięć podręczna tylko gdy brak internetu
